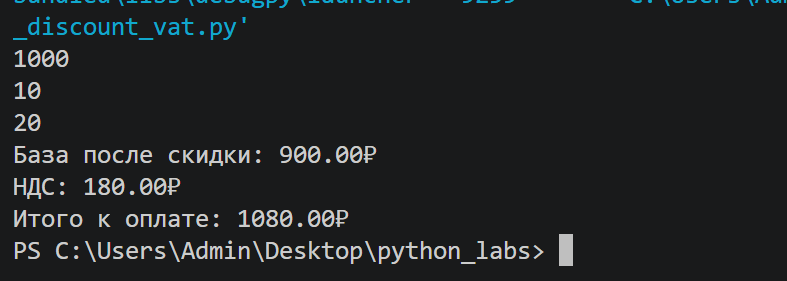
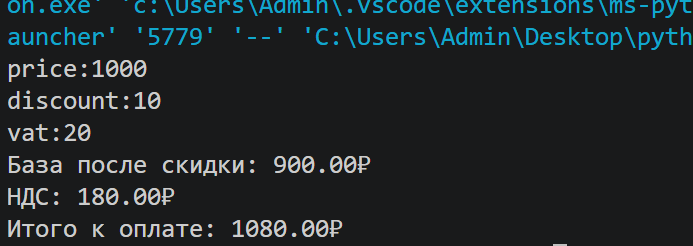
задание 3

diff --git a/src/lab01/03_discount_vat.py b/src/lab01/03_discount_vat.py
@@ -1,6 +1,6 @@
-price=float(input())
-discount=float(input())
-vat=float(input())
+price=float(input('price:'))
+discount=float(input('discount:'))
+vat=float(input('vat:'))
 base=price*(1-discount/100)
 vat_amount=base*(vat/100)
 total=base+vat_amount
